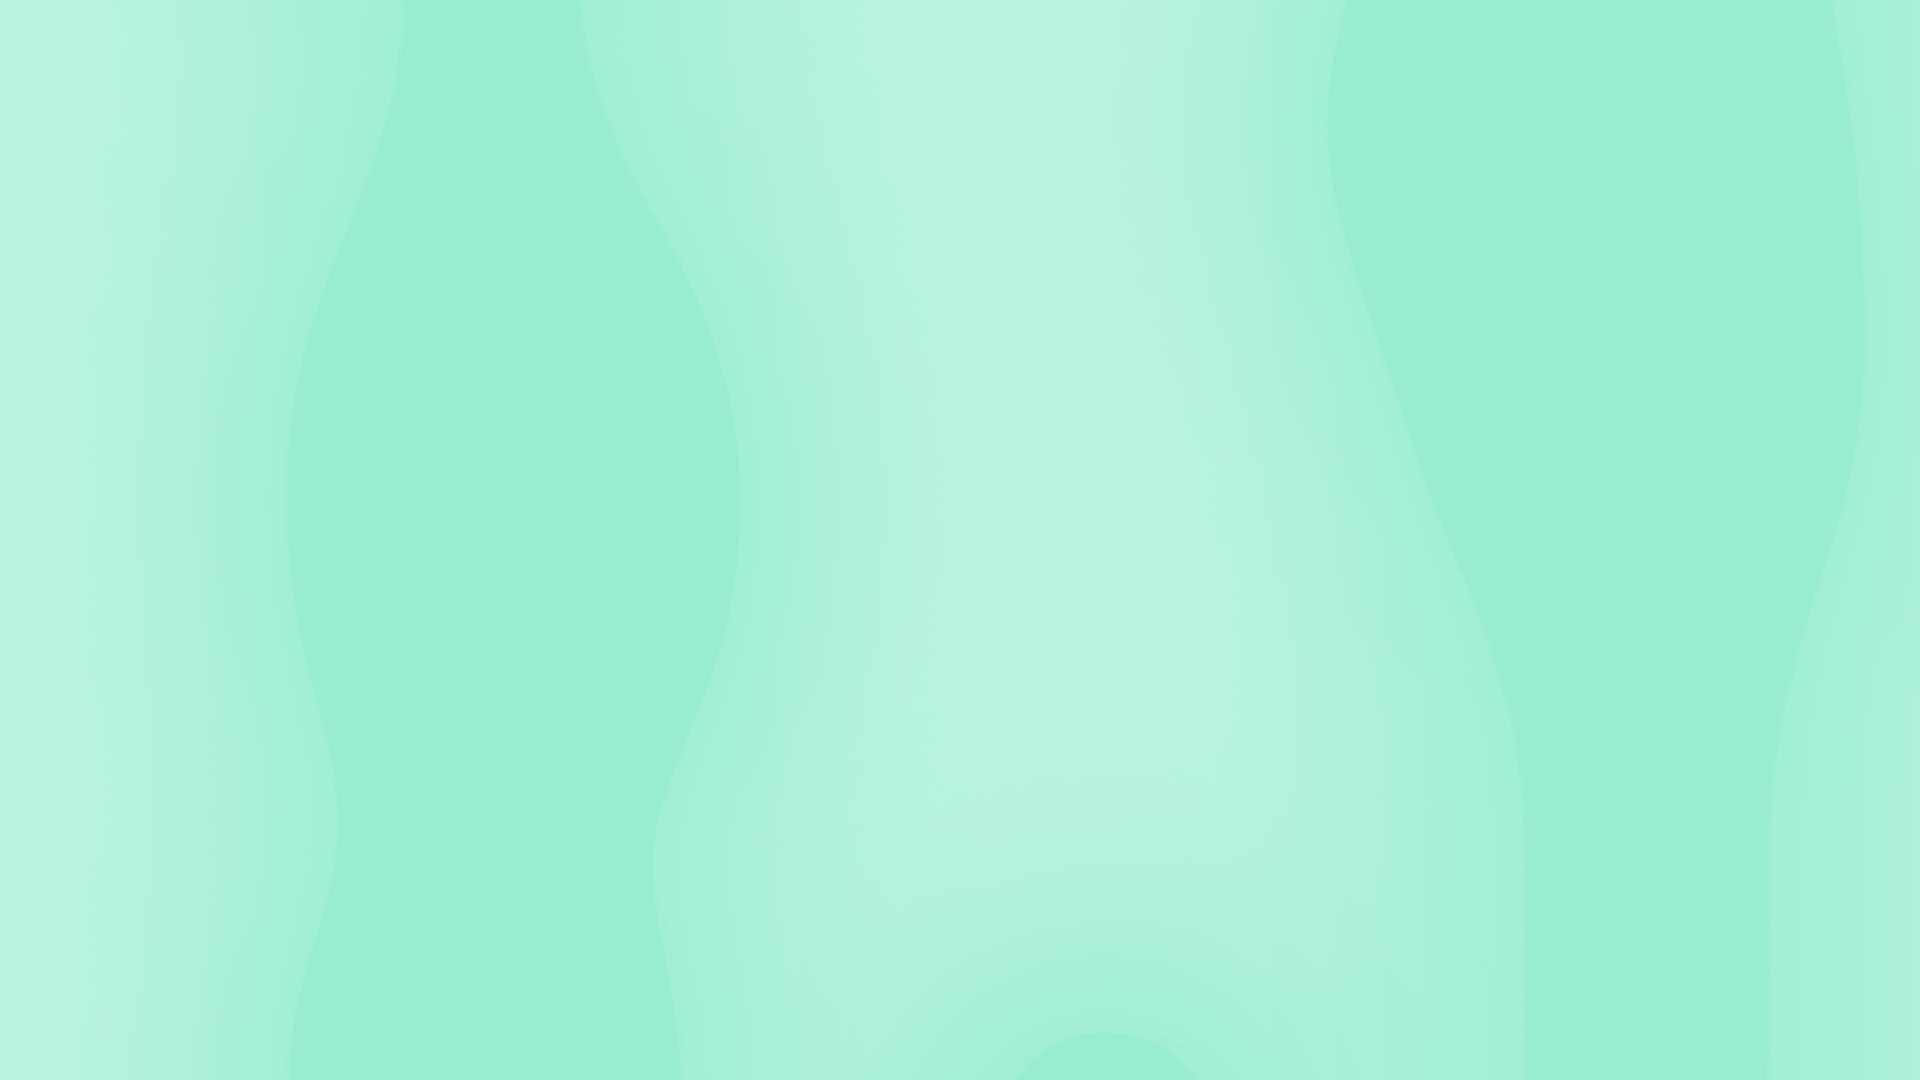
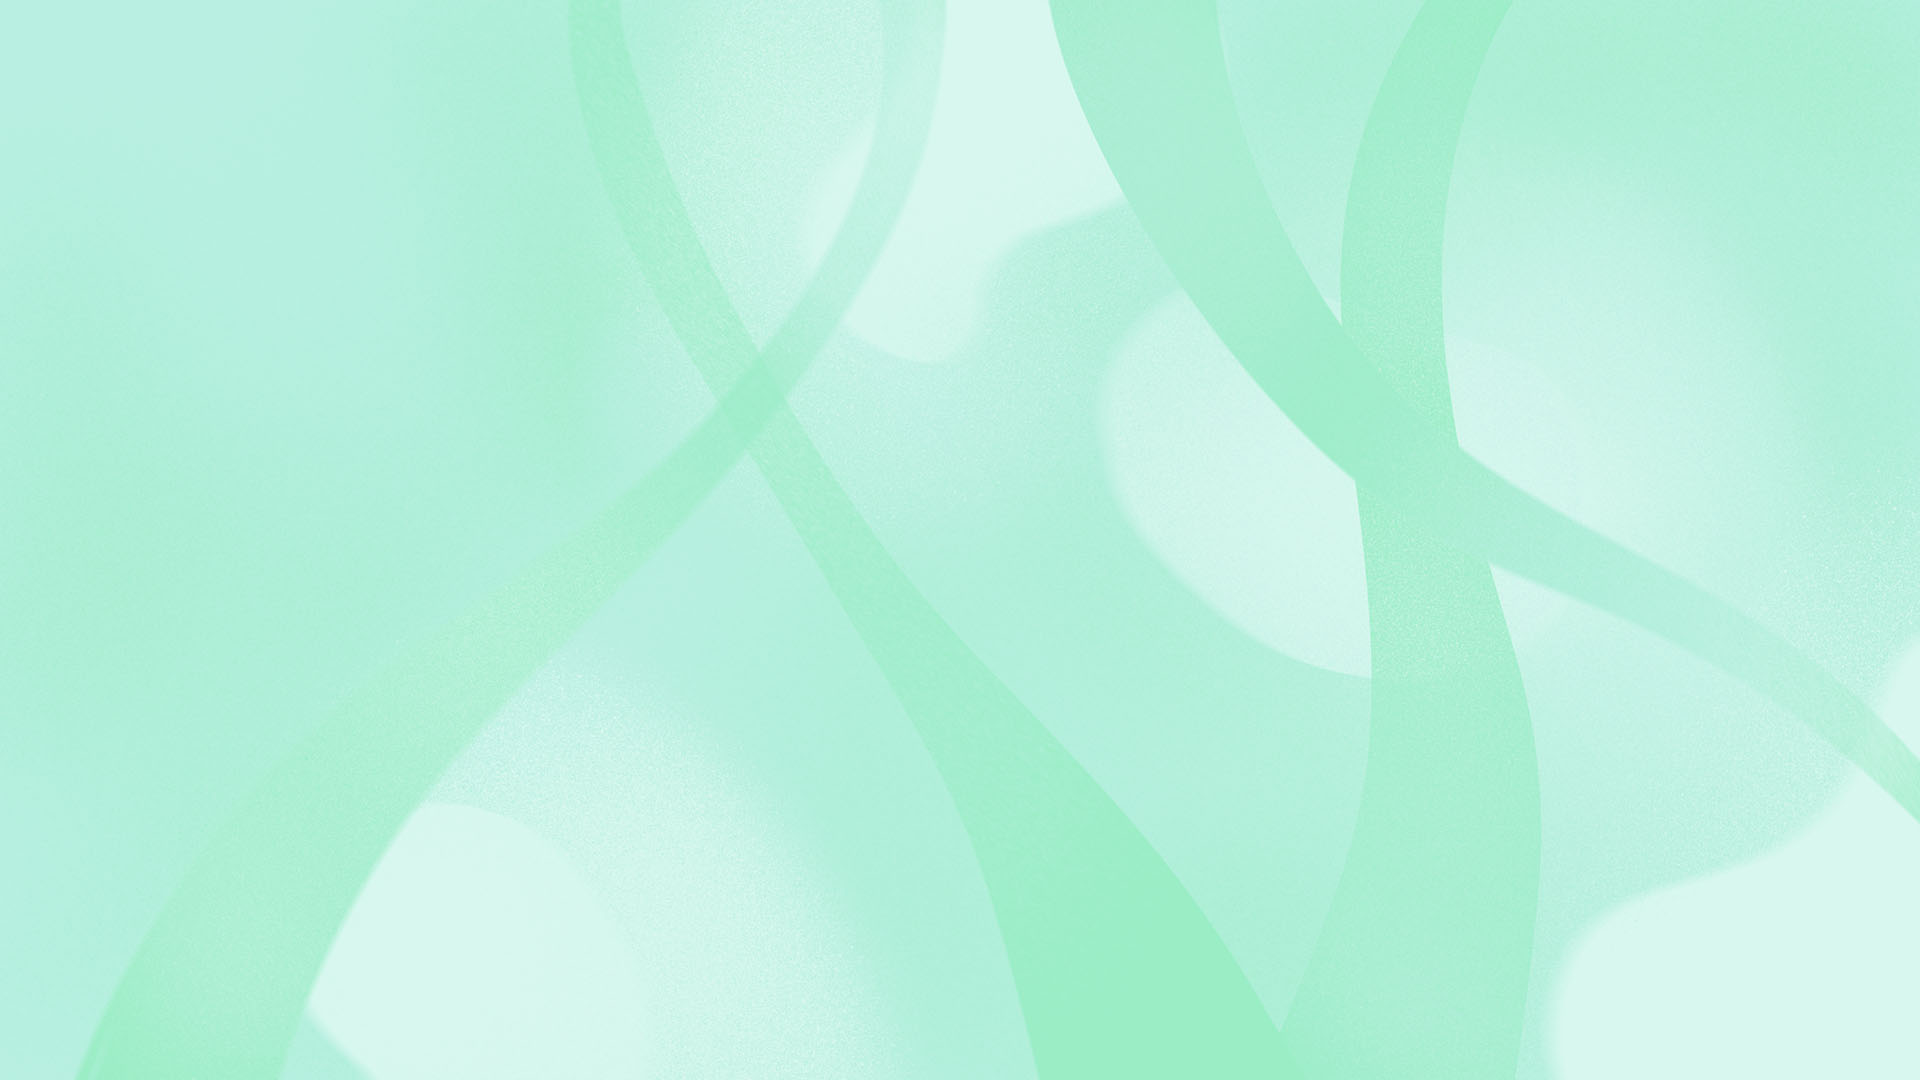
sharing is caring background

diff --git a/colors.css b/colors.css
@@ -8,9 +8,9 @@
   --takemebythehand-text-color: black;
   --takemebythehand-conversation-color: #ccf1f9;
   --sharingiscaring-color: #44C293;
-  --sharingiscaring-background-color: #97edcd;
+  --sharingiscaring-background-color: #b9efe2;
   --sharingiscaring-text-color: white;
-  --sharingiscaring-conversation-color: black;
+  --sharingiscaring-conversation-color: #002d54;
   --onmyterms-color: #766DE3;
   --onmyterms-background-color: #143e77;
   --onmyterms-text-color: white;

diff --git a/sharingiscaring/styles.css b/sharingiscaring/styles.css
@@ -5,6 +5,14 @@
   --conversation-color: var(--sharingiscaring-conversation-color);
 }
 
-body {
-  background-image: url('../images/backgroundsharingiscaring.jpg');
+#backgroundcontainer img:nth-child(2) {
+  transform: translate3d(0, 0, 2px) scale(1.02);
+}
+
+#backgroundcontainer img:nth-child(3) {
+  transform: translate3d(-1%, -1%, 3px) scale(1.02);
+}
+
+#backgroundcontainer img:nth-child(4) {
+  transform: translate3d(-1.3%, -1.3%, 4px) scale(1.01);
 }

diff --git a/sharingiscaring/index.html b/sharingiscaring/index.html
@@ -21,6 +21,9 @@
   <body class="inprogress">
     <div id="backgroundcontainer">
       <img src="../images/backgroundsharingiscaring.jpg">
+      <img src="../images/backgroundsharingiscaringlayer1.png">
+      <img src="../images/backgroundsharingiscaringlayer2.png">
+      <img src="../images/backgroundsharingiscaringlayer3.png">
     </div>
     <section id="conversation">
       <ol id="messages"></ol>
